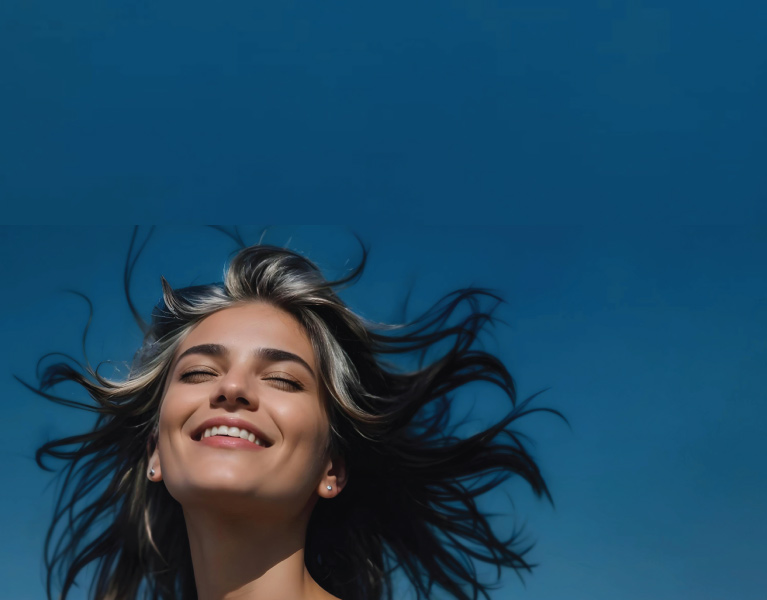
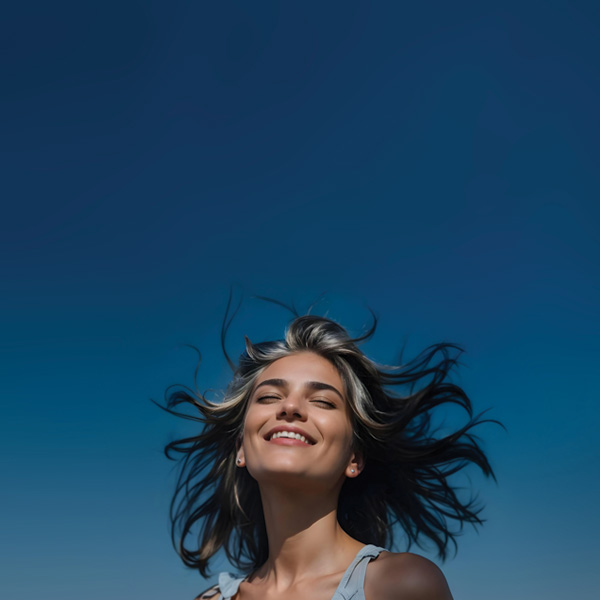
Fondo mobile refactor

diff --git a/src/App.css b/src/App.css
@@ -71,7 +71,6 @@ button.button-message__styles {
 /* Main content styles */
 main {
   margin-top: 70px; /* Header height + some spacing */
-  flex: 1;
 }
 
 .container {
@@ -263,7 +262,7 @@ input[type="file"].file-upload {
     justify-content: flex-end;
   }
   .info-section {
-     background: url('assets/fondo-info-section-mobile.jpg') left/cover fixed;
+     background: url('assets/fondo-info-section-mobile.jpg') center/cover fixed;
      align-items: first baseline;
   }
 
@@ -276,6 +275,12 @@ input[type="file"].file-upload {
 
   .video-container {
     width: 100%;
+    height: 350px;
+  }
+
+   .video-section {
+    height: 450px;
+    padding: 0px;
   }
 }
 
@@ -326,4 +331,5 @@ input[type="file"].file-upload {
     display: flex;
     justify-content: flex-end;
   }
+
 }
